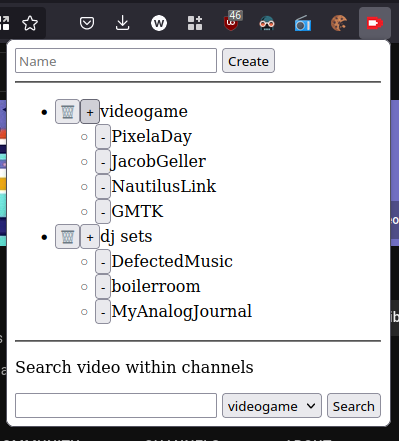
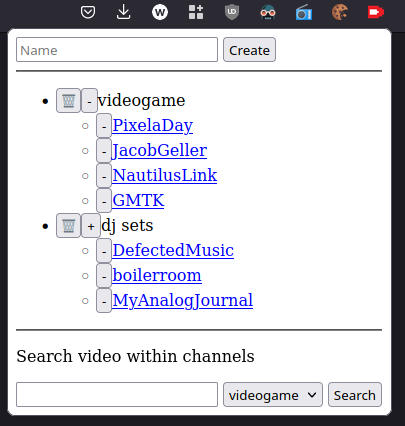
Update channels to style as links

Changed region(s): [[0.0, 0.0, 1.0, 0.9765], [0.0902, 0.5188, 0.1203, 0.5493]]

diff --git a/popup/scripts.js b/popup/scripts.js
@@ -41,7 +41,6 @@ async function init(){
     const tabs = await browser.tabs.query({currentWindow: true, active: true});
     const tab = tabs[0];
     if(/.*:\/\/.*youtube.com\/@.*/.test(tab.url)){
-        
         // Just obtain the user for now
         activeChannel.user = tab.url.match(/.*:\/\/.*youtube.com\/@([\w\.-]*)/)[1];
         activeChannel.url = `https://www.youtube.com/@${activeChannel.user}`;
@@ -119,7 +118,7 @@ function createChannelsList(tag){
 
         // Create list item
         const listItem = document.createElement("li");
-        listItem.setAttribute("class", "channel");
+        listItem.classList.add("channel");
         // Add button to remove from tag
         const button = document.createElement("button");
         button.innerText = "-";
@@ -133,6 +132,7 @@ function createChannelsList(tag){
         
         // Add link
         const link = document.createElement("span");
+        link.classList.add("channel-link");
         // Event to open channel URL in new tab, since I can't figure it out how to use links in popup (guess you can't)
         link.innerText = channel.user;
         link.addEventListener('click', () => browser.tabs.create({url: channel.url}));

diff --git a/popup/styles.css b/popup/styles.css
@@ -12,3 +12,9 @@ li.channel > img {
     max-height: 100px;
     overflow-y: scroll;
 }
+
+.channel-link { 
+    cursor:pointer;
+    color:blue;
+    text-decoration:underline;
+}
